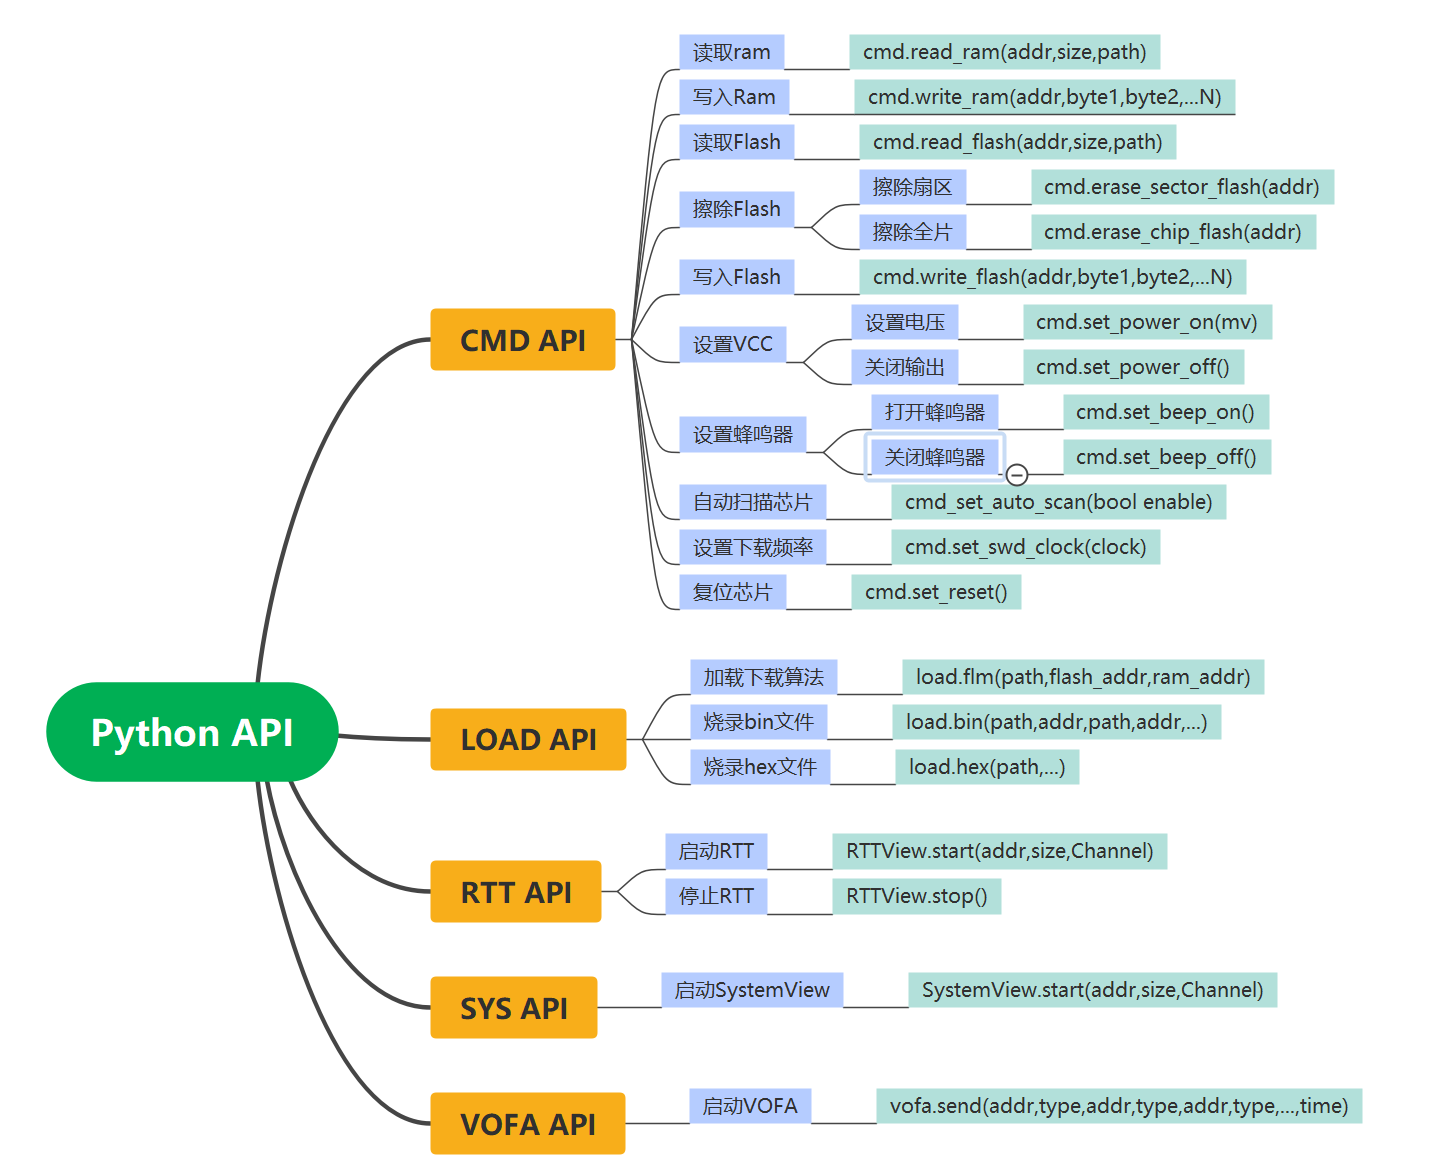
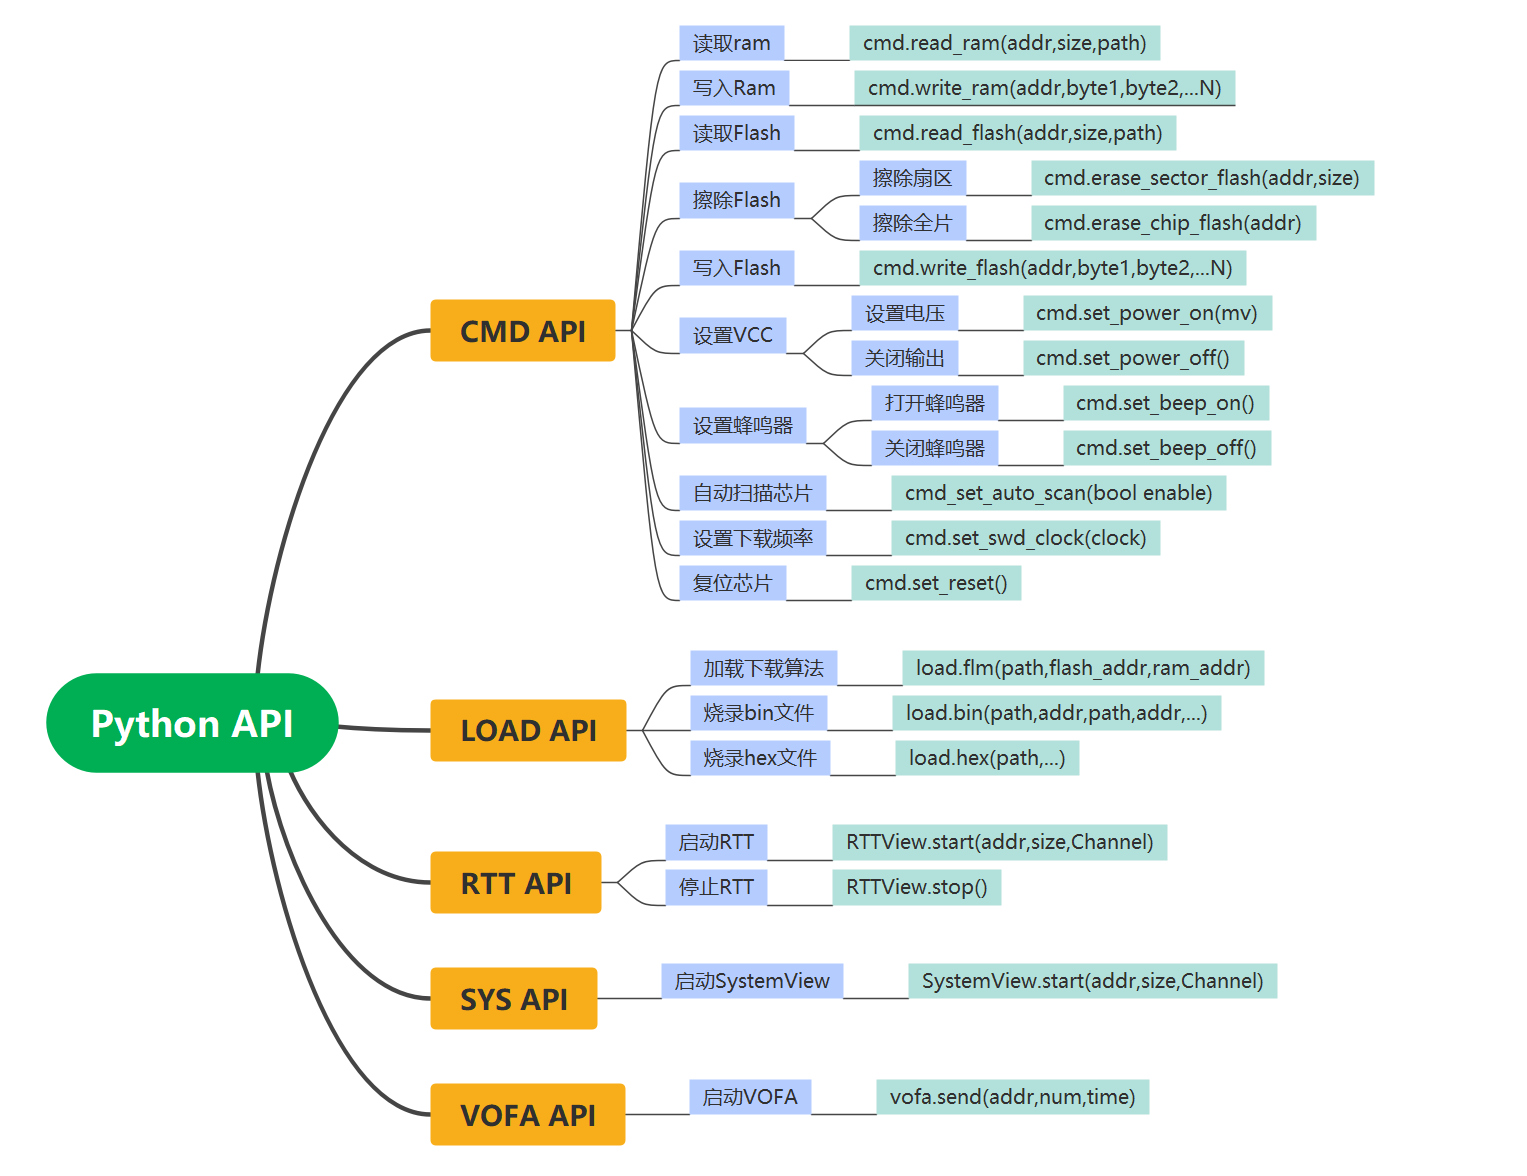
更新文档，修改vofa读取的参数

Changed region(s): [[0.0306, 0.0, 0.9492, 0.9184], [0.245, 0.9184, 0.9492, 1.0]]

diff --git a/docs/tools/microlink/python_api.md b/docs/tools/microlink/python_api.md
@@ -279,15 +279,15 @@ DownBuffer Channel 2 Size: 0 Mode: 0
 
 ### 4.1 启动VOFA
 
-vofa.send(addr,type,addr,type,addr,type,...,time)
+vofa.send(addr,num,time)
 
 **参数**:
 
 - addr：变量的地址
-- type，变量的类型
+- num，连续读取的变量个数
 - 周期，读取周期，单位秒，0为停止
 
 **示例**:
 
-- vofa.send(0x20000030,"uint8_t",0x2000154c,"float",0x20001550,"float",0.00001)
+- vofa.send(0x20000030,5,0.00001)
 
